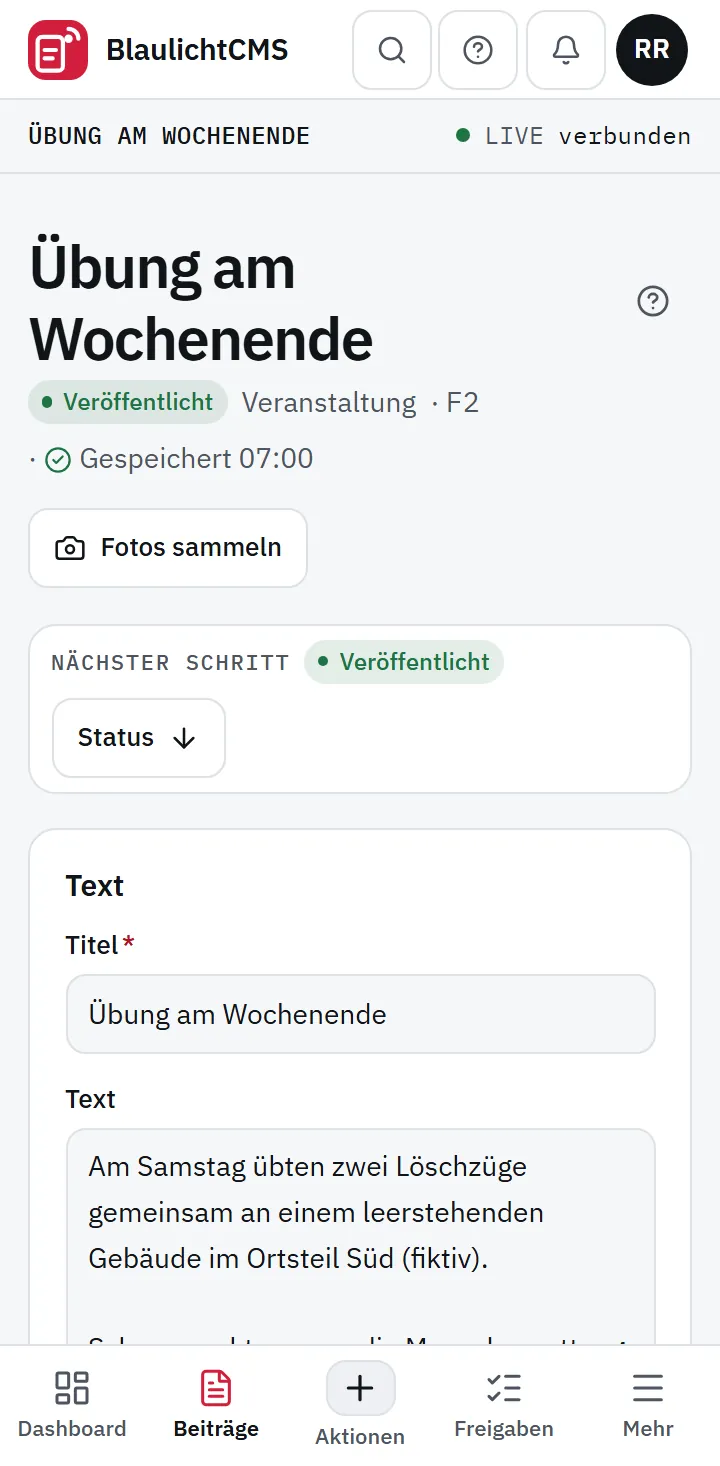
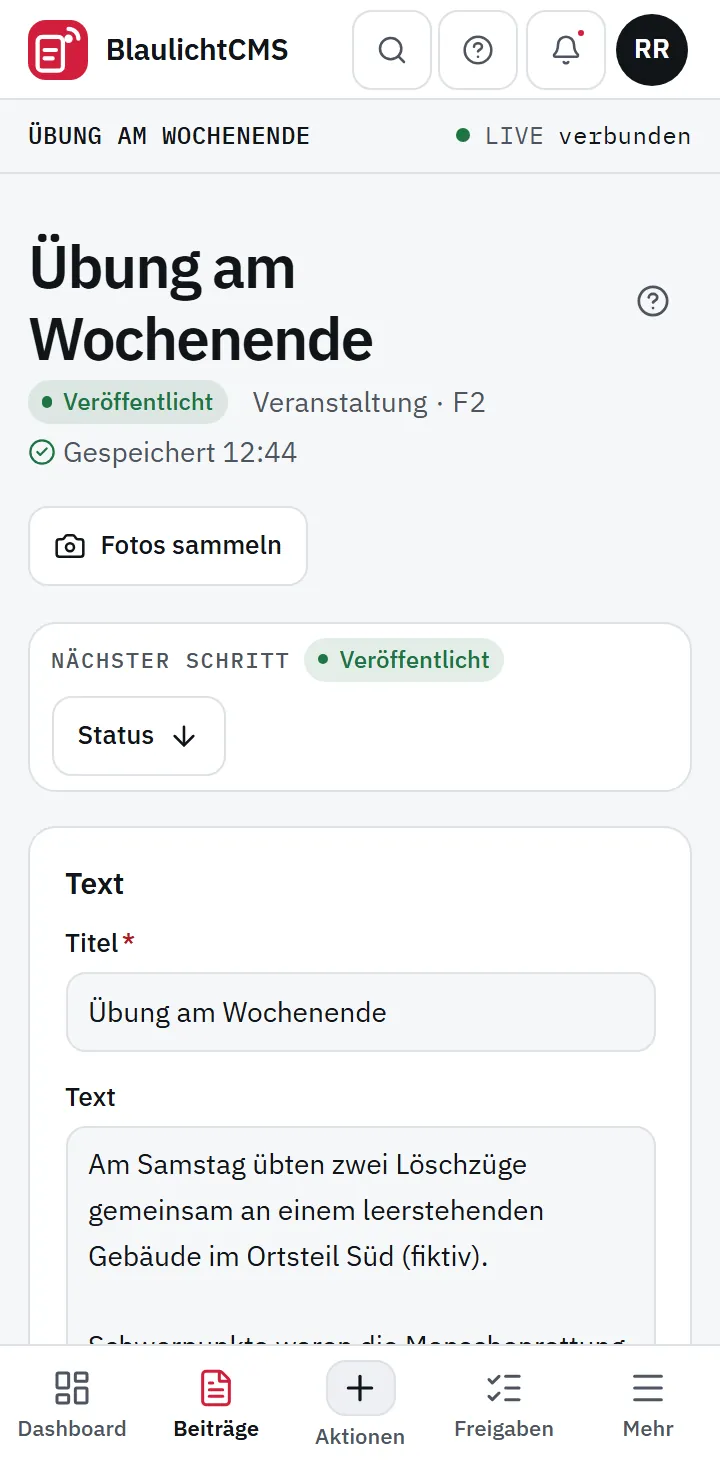
Version 0.7.1
Release mit neuem Docker-Image (Dockerfile, install.sh und Host-Skripte geändert, #275):
MIN_IMAGE_VERSION 0.7.1. Inhalt: Banner folgt dem Vorgang (#274), Trennpunkt in
Seitenköpfen (#273), Hilfe „?“ in Dialogen wieder sichtbar, robustere Image-Updates und
nächtliche Prüfung der Sicherung (#275), veröffentlichte Banner-Fassung zählt als aktiv.

- Versionshinweise release-notes/v0.7.1.md: diesmal Update von Hand am Host empfohlen
  (Prüfung auf lokale Änderungen, install.sh unter dem Standardpfad, schaltet den Helfer
  wieder ein), alternativ über den Update-Helfer; von 0.6.x aus Verweis auf „Nach dem
  Update“ von 0.7.0, weil die App nur die Hinweise der neuesten Version zeigt.
- README: Badge und Hinweis 0.7.1, Funktionen „Sichere Image-Updates“, Prüfung jeder
  Sicherung, Update-Wege in der CI; neues Bild der Bannerliste (Banner aus Workflows, folgt
  der Warnung, beendet mit der Entwarnung); Beitrag und Warnentwurf am Handy neu
  aufgenommen (Trennpunkt). Testinstanz mit fiktiven Daten.
- docs/technik.md, docs/entwicklung.md: rund 800 Server-Tests, Stand des Update-Helfers.

diff --git a/release-notes/v0.7.1.md b/release-notes/v0.7.1.md
@@ -1,0 +1,136 @@
+## BlaulichtCMS 0.7.1
+
+Pflegeupdate mit **neuem Docker-Image**: Banner aus Workflows folgen jetzt einer amtlichen Warnung bzw. einem Einsatz
+bis zur Entwarnung, Image-Updates sind robuster (Selbsttest vor dem Wechsel, Rückweg erst nach geprüfter Sicherung), und
+die nächtliche Prüfung der Sicherung meldet keine falschen Fehler mehr. Diesmal empfehlen wir, das Update **von Hand am
+Docker-Host** einzuspielen (Anleitung unten).
+
+Beim Start wird die Datenbank-Migration 231 automatisch angewendet; Daten, Konten und Rollen bleiben erhalten. Keine
+neuen Rechte (weiter 101 in 15 Bereichen), BlaulichtCMS Bridge unverändert 0.9.1.
+
+### Neu: Banner folgt dem Vorgang
+
+- Die Banner-Aktion in Workflows hat die Option **„Banner folgt dem Vorgang“**. Sie ist standardmäßig an – auch für
+  Aktionen, die es schon vor dem Update gab; ein **„?“** daneben erklärt sie.
+- **Aktualisierung:** Kommt eine Aktualisierung derselben amtlichen Warnung bzw. desselben FE2-/Feuersoftware-Einsatzes
+  bei der Banner-Aktion an, ändert sie das Banner, das sie schon angelegt hat (Titel, Text, Stil, Priorität, Ablauf,
+  Link), statt ein zweites anzulegen. Die Freigabe läuft wie beim Anlegen: mit Direktversand sofort veröffentlicht;
+  noch nicht freigegeben → liegt mit dem neuen Inhalt weiter zur Freigabe; schon freigegeben oder veröffentlicht → die
+  neue Fassung wird zur Freigabe eingereicht, auf der Website bleibt bis dahin die bisherige („Auf der Website steht noch
+  Fassung …“).
+- **Entwarnung / Einsatz beendet:** Alle noch aktiven Banner, die dem Vorgang folgen, enden beim Eingang der Meldung und
+  verschwinden beim nächsten Abruf der Bridge von der Website. Das wirkt **immer** – auch ohne „Entwarnung“ bzw.
+  „Einsatz beendet“ am Auslöser, bei inzwischen deaktiviertem Workflow und wenn die Bedingungen nicht mehr zutreffen.
+  Eine Entwarnung legt über die Banner-Aktion nie ein neues Banner an.
+- Die **Bannerliste** zeigt die Herkunft: „Aus Workflow „…“ · folgt der Warnung“ bzw. „… dem Einsatz“, nach dem Ende
+  „Beendet: Entwarnung“ bzw. „Beendet: Einsatz beendet“. Solange die bisherige Fassung auf der Website steht und die
+  neue zur Freigabe liegt, zählt das Banner auch unter „Aktiv und geplant“, und das Dashboard zeigt unter „Banner aktiv“
+  die Fassung auf der Website. Das Laufprotokoll nennt je Schritt, was passiert ist (aktualisiert, unverändert oder
+  „Übersprungen“ mit Grund – der frühere Status „Nicht erreicht“ heißt jetzt ebenfalls „Übersprungen“).
+- **Von Hand:** Ein mit „Jetzt beenden“ beendetes Banner legt der Workflow nicht neu an. Wer den Text eines folgenden
+  Banners von Hand ändert, behält ihn – Aktualisierungen überschreiben ihn nicht, das Ende des Vorgangs beendet das
+  Banner trotzdem.
+- **Bitte beachten:**
+  - Damit Aktualisierungen das Banner ändern, muss am Auslöser der Vorgang **„Aktualisierung“** angehakt sein. Für das
+    Ende braucht es keinen Haken.
+  - Mit diesem Haken lösen bei jeder Aktualisierung auch die **anderen Aktionen** desselben Workflows aus (z. B.
+    Beitragsentwurf, E-Mail, App-Benachrichtigung). Wer das nicht möchte, setzt vor diese Zweige die Bedingung
+    `Vorgang` *ist gleich* `neu`.
+  - Banner, die **vor dem Update** angelegt wurden, kennen ihre Herkunft nicht und folgen nicht. Neue Banner ab dem
+    Update folgen.
+  - Option aus: das bisherige Verhalten – jede Meldung, die durch den Ablauf kommt, legt ein eigenes Banner an.
+
+### Korrekturen
+
+- **Hilfe in Dialogen:** Die Erklärung hinter dem **„?“** und Menüs in Dialogen lagen hinter der Abdunkelung des Dialogs
+  und waren nicht zu sehen. Sie stehen jetzt vorn.
+- **Seitenköpfe am Handy:** Der Trennpunkt „·“ steht beim Umbruch nicht mehr am Anfang einer Zeile (#273).
+
+### Image-Updates robuster (#275)
+
+Ein Image-Update über den Update-Helfer konnte ein Image bauen, dessen Programmdateien der Container nicht lesen durfte;
+der anschließende Rückweg brach bei der Wiederherstellung ab. Das ist auf mehreren Ebenen behoben:
+
+- **Dateirechte im Image unabhängig vom Host:** Das Image setzt die Rechte seiner Programmdateien selbst und prüft beim
+  Bau, dass alles lesbar ist. `install.sh` arbeitet mit fester umask und vereinheitlicht die Rechte der Programmdateien im
+  Installationsordner.
+- **Selbsttest vor dem Wechsel:** Jedes neu gebaute Image startet einmal ohne Netz und ohne Daten und muss alle
+  Programmdateien lesen und das Programm laden können. Besteht es nicht, bricht das Update ab, bevor etwas geändert wird.
+  Ein schon vorhandenes Image, das den Test nicht besteht, wird ohne Cache neu gebaut.
+- **Rückweg erst nach geprüfter Sicherung:** Startet die neue Version nicht, prüft der Rückweg zuerst die Sicherung und
+  ersetzt erst dann das Datenvolume. Besteht die Sicherung die Prüfung nicht, bleibt das Volume unverändert, und die
+  Ausgabe nennt den Weg von Hand. Sicherung, Prüfung und Wiederherstellung lesen die nur für root lesbaren Archive und
+  Schlüssel jetzt mit den nötigen Rechten.
+- **Containerprotokoll bleibt erhalten:** Vor dem Rückweg kommt das Protokoll des neuen Containers (ohne Zugangsdaten) in
+  die Ausgabe. Der Update-Helfer zeigt den Auszug auch in der App und schreibt die Ausgabe nicht erfolgreicher Läufe nach
+  `/var/log/blaulichtcms-update.log` – das gilt für Image-Updates nach 0.7.1, weil der neue Helfer erst mit diesem
+  Update ankommt.
+- **Nächtliche Prüfung der Sicherung:** Sie meldete fälschlich Fehler – wegen fehlender Leserechte auf die Archive und bei
+  großen Sicherungen je nach Reihenfolge im Archiv eine vermeintlich fehlende Datenbank. Beides ist behoben.
+- Der ganze Weg läuft jetzt in der CI mit echtem Docker: Update von 0.7.0 über den Update-Helfer unter systemd und mit
+  `install.sh` von Hand, Rückweg mit Wiederherstellung, gescheiterte Prüfung der Sicherung, gescheiterter Selbsttest.
+
+### So spielst du das Update ein
+
+Diese Version braucht ein **neues Docker-Image**; geändert haben sich `Dockerfile`, `install.sh` und die Skripte, die am
+Host laufen. Die Korrekturen an diesen Skripten kommen nur über `install.sh` an.
+
+**Empfohlen: von Hand am Docker-Host** (von 0.7.0 und von 0.6.x aus):
+
+1. Am Docker-Host anmelden (z. B. per SSH) und prüfen, dass der Installationsordner keine lokalen Änderungen am Code hat:
+
+   ```
+   sudo git -C /opt/apps/blaulichtcms status --porcelain --untracked-files=no
+   ```
+
+   Die Ausgabe muss **leer** sein. Steht dort etwas, zuerst klären (`sudo git -C /opt/apps/blaulichtcms diff`) –
+   `install.sh` überschreibt nichts und bricht sonst mit „lokale Änderungen am Code“ ab.
+2. Das Installationsskript genau unter diesem Pfad ausführen (bei einem anderen Installationsordner dessen `install.sh`):
+
+   ```
+   sudo bash /opt/apps/blaulichtcms/install.sh
+   ```
+
+   Es holt 0.7.1, macht gleich mit dem neuen `install.sh` weiter, baut das Image (einige Minuten), prüft es im
+   Selbsttest, schaltet den Wartungsmodus ein, sichert alles und wechselt – bei einem Fehler zurück auf den bisherigen
+   Stand. Während Sicherung und Wechsel ist BlaulichtCMS einige Minuten nicht erreichbar. Ein eingerichteter
+   **Update-Helfer** wird dabei auf den neuen Stand gebracht und wieder eingeschaltet.
+3. Prüfen: unter *Verwaltung → Einstellungen → Updates & Wartung* steht als laufende Version **0.7.1 (aus dem Image)** und
+   beim Update-Helfer „eingerichtet“. Am Host zeigt `systemctl is-active blaulichtcms-update.path` den Wert `active`.
+
+**Alternativ in der App über den Update-Helfer:** Ist der Helfer am Host angehalten, ihn zuerst wieder starten:
+
+```
+sudo systemctl start blaulichtcms-update.path
+```
+
+Dann unter *Verwaltung → Einstellungen → Updates & Wartung* (in 0.6.x: *Verwaltung → Einstellungen*, Abschnitt
+*Updates*) in der Karte „Neues Docker-Image nötig“ auf **„Image-Update auf 0.7.1 anstoßen“** klicken, bestätigen und
+das Passwort (mit Zwei-Faktor-Code) eingeben; nötig ist das Recht „Updates einstellen und installieren“. Der Helfer
+startet das installierte `install.sh`, das 0.7.1 holt und mit dem neuen `install.sh` weitermacht – derselbe Ablauf wie
+oben. Fortschritt oben auf der Seite, Verlauf am Host in `/var/log/blaulichtcms-update.log`.
+
+**Von 0.6.x aus:** 0.7.1 enthält alles aus 0.7.0. Lies vorher die Hinweise
+[„Nach dem Update“ von 0.7.0](https://github.com/thisislennard/BlaulichtCMS/blob/v0.7.0/release-notes/v0.7.0.md#nach-dem-update)
+– die Seite in der App zeigt nur die Hinweise der neuesten Version. Zu tun ist danach vor allem: Herkunft und
+Rechtsgrundlage im Presseverteiler nachtragen (Filter „Zu prüfen“), verantwortliche Stelle und Datenschutzerklärung unter
+*Einstellungen → Datenschutz & Recht* ausfüllen, ein internes Presse-Postfach unter *Einstellungen → Sicherheit →
+„Interne Ziele freigeben“* eintragen. Außerdem ändern sich unter anderem die Navigation, die Löschfristen für
+Presseanfragen, die Aufbewahrung der Sicherung außer Haus und der Inhalt von Push und E-Mail.
+
+### Nach dem Update
+
+- **Version prüfen:** *Verwaltung → Einstellungen → Updates & Wartung* zeigt **0.7.1 (aus dem Image)**.
+- **Banner-Aktionen:** unter *Einrichtung → Workflows*, Reiter *Aktionen*, bei jeder Banner-Aktion den Schalter
+  **„Banner folgt dem Vorgang“** prüfen. Er ist an; bestehende aktive Workflows folgen damit ab sofort.
+- **Aktualisierungen gewünscht?** Dann im Reiter *Auslöser* beim Auslöser „Amtliche Warnung“ bzw.
+  „FE2-Alarm“/„Feuersoftware-Einsatz“ den Vorgang **„Aktualisierung“** anhaken und für andere Aktionen desselben
+  Workflows ggf. die Bedingung `Vorgang` *ist gleich* `neu` ergänzen.
+- Änderungen an Auslösern und Aktionen wirken in aktiven Workflows erst nach einem neuen **Test** und einer neuen
+  **Aktivierung** des Workflows.
+
+### Grenzen
+
+- Das Image-Update ist in der CI mit echtem Docker geprüft (über den Update-Helfer unter systemd und mit `install.sh` von
+  Hand, jeweils von 0.7.0 aus); auf einem echten Host steht es mit diesem Update aus.
+- Details: [Teststand und Grenzen](https://github.com/thisislennard/BlaulichtCMS/blob/main/docs/technik.md#teststand-und-grenzen).

diff --git a/README.md b/README.md
@@ -9,7 +9,7 @@ Fotos per Link vom Handy sammeln · sichten · Beiträge schreiben · Fassung fr
 [![CI](https://github.com/thisislennard/BlaulichtCMS/actions/workflows/ci.yml/badge.svg)](https://github.com/thisislennard/BlaulichtCMS/actions/workflows/ci.yml)
 [![Sicherheitsprüfung](https://github.com/thisislennard/BlaulichtCMS/actions/workflows/security.yml/badge.svg)](https://github.com/thisislennard/BlaulichtCMS/actions/workflows/security.yml)
 [![Lizenz: GPL-3.0](https://img.shields.io/badge/Lizenz-GPL--3.0--or--later-blue)](LICENSE)
-![Version](https://img.shields.io/badge/Version-0.7.0-D21F3C)
+![Version](https://img.shields.io/badge/Version-0.7.1-D21F3C)
 ![TypeScript](https://img.shields.io/badge/TypeScript-7-3178C6?logo=typescript&logoColor=white)
 ![Node.js](https://img.shields.io/badge/Node.js-26-5FA04E?logo=nodedotjs&logoColor=white)
 ![PostgreSQL](https://img.shields.io/badge/PostgreSQL-18-4169E1?logo=postgresql&logoColor=white)
@@ -22,7 +22,7 @@ Fotos per Link vom Handy sammeln · sichten · Beiträge schreiben · Fassung fr
 ![Dashboard von BlaulichtCMS (Rolle Redaktion)](docs/bilder/dashboard.webp)
 
 > [!NOTE]
-> **Version 0.7.0 – noch vor dem ersten Produktivbetrieb.** Der Funktionsumfang ist vollständig und automatisiert
+> **Version 0.7.1 – noch vor dem ersten Produktivbetrieb.** Der Funktionsumfang ist vollständig und automatisiert
 > getestet; was mit echten Fremdsystemen geprüft ist und was noch nicht, steht unter
 > [Teststand und Grenzen](docs/technik.md#teststand-und-grenzen). Alle Screenshots stammen aus einer Testinstanz mit fiktiven Daten.
 
@@ -372,11 +372,15 @@ flowchart LR
   Prüfung – mit eingerichtetem **Update-Helfer** lässt sich auch dieses Update in der App anstoßen (prüft das signierte
   Release, baut, sichert, wechselt, bei Fehler zurück; Fortschritt und Protokollauszug in der App), ohne dem Container
   Zugriff auf Docker zu geben. Ohne Helfer nennt die Seite die Schritte am Host (ein Aufruf des Installationsskripts).
-- **Sicherung:** täglich, verschlüsselt, auf Wunsch zusätzlich **außer Haus** auf ein NAS (WebDAV, mit Prüfsummenkontrolle und Aufbewahrung je Tag/Woche/Monat, Standard 7/4/3; Hinweis auf frühere Ziele, auf denen noch Sicherungen liegen); **Probe-Wiederherstellung** in eine Wegwerf-Datenbank auf Knopfdruck und nach Zeitplan, mit Ergebnisprotokoll im Systemstatus.
+- **Sichere Image-Updates:** Jedes neue Image besteht vor dem Wechsel einen Selbsttest ohne Netz und ohne Daten
+  (Programmdateien lesbar, Programm lädt), Dateirechte im Image hängen nicht vom Host ab. Der automatische Rückweg ersetzt
+  die Daten erst, wenn die Sicherung geprüft ist, und hält das Protokoll des gescheiterten Containers fest.
+- **Sicherung:** täglich, verschlüsselt, jede Sicherung gleich danach geprüft (Prüfsumme, Entschlüsseln, Inhalt), auf Wunsch zusätzlich **außer Haus** auf ein NAS (WebDAV, mit Prüfsummenkontrolle und Aufbewahrung je Tag/Woche/Monat, Standard 7/4/3; Hinweis auf frühere Ziele, auf denen noch Sicherungen liegen); **Probe-Wiederherstellung** in eine Wegwerf-Datenbank auf Knopfdruck und nach Zeitplan, mit Ergebnisprotokoll im Systemstatus.
 - **Systemstatus:** Dienste, Speicher, Sicherungen, Probe-Wiederherstellung, Audit-Integrität, Wartungsmodus und
   Vorabprüfung vor Updates.
 - **Geprüft bei jeder Änderung:** Server-Tests gegen echtes PostgreSQL, Browsertests der Kernabläufe (Einrichtung,
-  Anmeldung mit Zwei-Faktor, Beitrag bis zur Freigabe, Workflow aus Vorlage), Image-Bau und Sicherheitsprüfung;
+  Anmeldung mit Zwei-Faktor, Beitrag bis zur Freigabe, Workflow aus Vorlage), Image-Bau, Image-Updates mit echtem
+  Docker (über den Update-Helfer, von Hand, Rückweg) und Sicherheitsprüfung;
   wöchentlich eine Versionsprüfung aller Abhängigkeiten.
 
 ---
@@ -415,6 +419,9 @@ flowchart LR
   <tr>
     <td colspan="2"><b>Workflows</b><br/>geführt in drei Schritten: Wenn – Nur wenn – Dann<br/><br/><img src="docs/bilder/workflow.webp" alt="Workflow in der geführten Ansicht"/></td>
     <td><b>Kalender</b><br/>Termine, Serien, geplante Beiträge und Fristen<br/><br/><img src="docs/bilder/kalender.webp" alt="Kalender in der Monatsansicht"/></td>
+  </tr>
+  <tr>
+    <td colspan="3"><b>Banner aus Workflows</b><br/>folgen der amtlichen Warnung bis zur Entwarnung, Aktualisierungen gehen zur Freigabe<br/><br/><img src="docs/bilder/banner.webp" alt="Bannerliste mit Bannern aus einem Workflow, die einer Warnung folgen"/></td>
   </tr>
   <tr>
     <td><b>Presseanfragen</b><br/>Status, Zuständigkeit, Frist und Verlauf<br/><br/><img src="docs/bilder/presse.webp" alt="Liste der Presseanfragen"/></td>

diff --git a/docs/technik.md b/docs/technik.md
@@ -341,7 +341,7 @@ nicht archivierten Beiträge (bei 4 800 Beiträgen ohne Freigaben 46 ms) – Bei
 
 ## Teststand und Grenzen
 
-**Automatisiert (bei jedem Push in der CI):** Typprüfung, rund 780 Server-Tests gegen echtes PostgreSQL (inklusive
+**Automatisiert (bei jedem Push in der CI):** Typprüfung, rund 800 Server-Tests gegen echtes PostgreSQL (inklusive
 Video-Verarbeitung mit ffmpeg), Build, PHP-Lint des Plugins, Probelauf mit Docker Compose (Rollen, Schlüsselwechsel,
 Audit-Kette; Image aus einer Arbeitskopie mit Dateirechten 0600/0700), Update-Wege mit echtem Docker
 (`test/docker/update-wege.sh`, #275: Image-Update von 0.7.0 über den Update-Helfer unter systemd, `install.sh` 0.7.0
@@ -393,7 +393,8 @@ Ergebnisse je Verbindung: [docs/integrationen.md](integrationen.md).
   Helfers bei der App geprüft (0.6.1). Das erste Image-Update aus der App (0.6.1 → 0.7.0) scheiterte dort an
   Dateirechten aus der umask des Dienstes, der Rückweg an einem Prüfschritt ohne root-Rechte (#275, behoben in 0.7.1).
   Seitdem läuft der vollständige Weg (Helfer unter systemd → `install.sh` → Build, Selbsttest, Sicherung, Wechsel,
-  Rückweg) in der CI mit echtem Docker; ein Image-Update aus der App auf dem echten Host steht mit 0.7.1 aus.
+  Rückweg) in der CI mit echtem Docker. Ein Image-Update aus der App auf dem echten Host steht noch aus; für 0.7.1 ist
+  der Weg von Hand mit `install.sh` empfohlen, der auch den neuen Helfer mitbringt.
 - Sicherung außer Haus und Probe-Wiederherstellung (#212): gegen einen WebDAV-Stellvertreter mit echtem TLS getestet;
   mit dem echten NAS (z. B. Synology „WebDAV Server“) und die zeitgesteuerte Probe auf dem Zielhost noch prüfen.
 - Freigabe aus der Push-Mitteilung (#216): Ob ein Gerät Aktionsknöpfe zeigt, entscheidet der Browser; auf echten

diff --git a/docs/entwicklung.md b/docs/entwicklung.md
@@ -37,7 +37,7 @@ startet PostgreSQL) ist für den Container gedacht, funktioniert aber auch lokal
 | Ebene | Befehl | Inhalt |
 |---|---|---|
 | Typprüfung | `npm run typecheck` | Server und Oberfläche |
-| Unit + Integration | `TEST_DATABASE_URL=… npm test` | rund 780 Tests: Rechte, Krypto, SSRF, Fassungen, Upload, Warnentwürfe, Verbindungen, Workflows, Kalender, Presse, Einsatzliste, Import, Sicherheit – braucht ffmpeg und pdftotext |
+| Unit + Integration | `TEST_DATABASE_URL=… npm test` | rund 800 Tests: Rechte, Krypto, SSRF, Fassungen, Upload, Warnentwürfe, Verbindungen, Workflows, Kalender, Presse, Einsatzliste, Import, Sicherheit – braucht ffmpeg und pdftotext |
 | Kernabläufe | `node test/e2e/core-flows.mjs` | Ersteinrichtung mit Zwei-Faktor, Anmeldung mit Code, Beitrag anlegen → einreichen → freigeben (Vier-Augen), Workflow aus Vorlage anlegen und testen (frische Instanz nötig; läuft in der CI) |
 | Fokus-Test | `node test/e2e/focus-check.mjs` | Tippen in alle Textfelder und Dialoge ohne Fokusverlust (laufende Instanz nötig) |
 | Dashboard anpassen | `node test/e2e/dashboard-dnd.mjs` | Verschieben mit Maus, Finger (Touch-Emulation) und Tastatur, Abbrechen, Speichern, Vorlagen (Instanz mit den Testdaten des Fokus-Tests nötig) |
